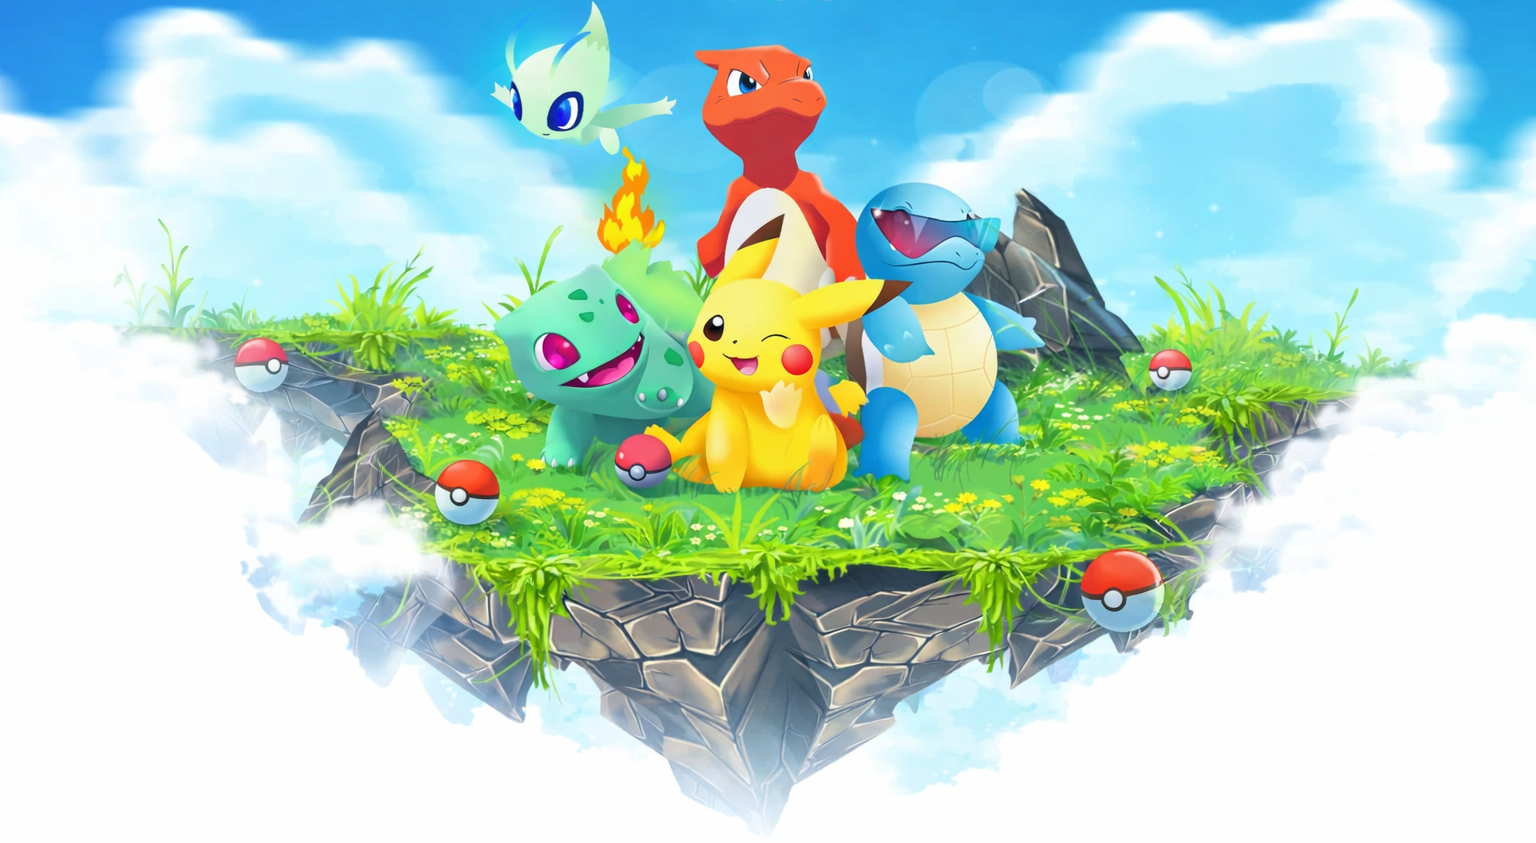
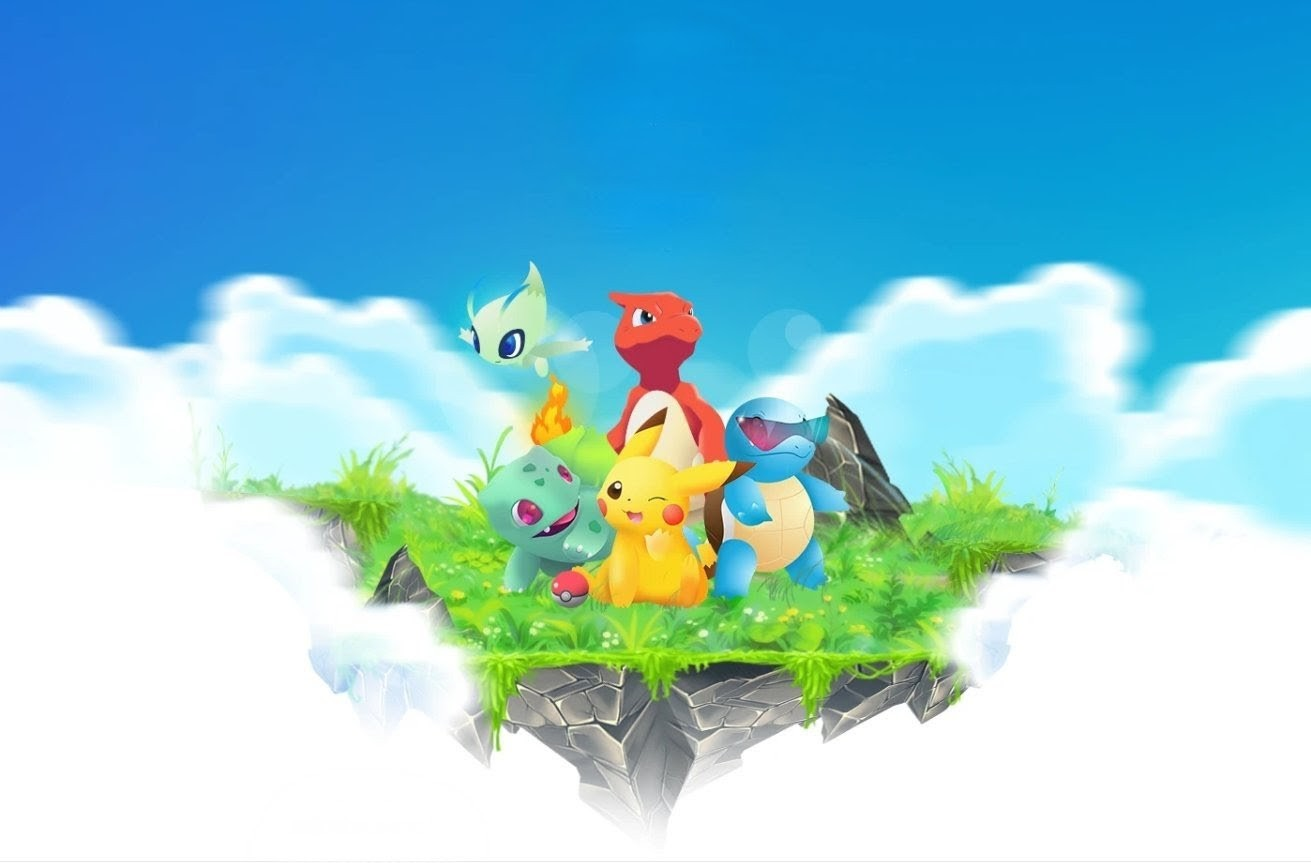
update for today

diff --git a/app/page.tsx b/app/page.tsx
@@ -1,8 +1,8 @@
 import Navbar from "@/components/Navbar";
-import FeatureCard from "@/components/FeatureCard";
 import HowItWorks from "@/components/HowItWorks";
 import CTASection from "@/components/CTASection";
 import Hero from "@/components/Hero";
+import Features from "@/components/Features";
 import { FaUsers, FaChartLine, FaShieldAlt } from "react-icons/fa";
 
 export default function Home() {
@@ -10,33 +10,7 @@ export default function Home() {
     <main className="bg-white">
       <Navbar />
       <Hero />
-
-      // {/* Hero Section */}
-      // <section className="text-center py-32 bg-gradient-to-r from-blue-500 to-blue-400 text-white">
-      //   <h1 className="text-5xl font-bold">Play Pokémon GO Smarter</h1>
-      //   <p className="mt-4 text-xl">
-      //     Build better teams, find raid counters, and analyze stats
-      //   </p>
-      // </section>
-
-      {/* Features */}
-      <section className="px-20 py-20 grid grid-cols-3 gap-6">
-        <FeatureCard
-          title="Team Builder"
-          desc="Create and analyze competitive Pokémon teams."
-          icon={<FaUsers />}
-        />
-        <FeatureCard
-          title="Raid Counters"
-          desc="Find the best Pokémon for any raid boss."
-          icon={<FaShieldAlt />}
-        />
-        <FeatureCard
-          title="Stat Analytics"
-          desc="Understand IVs, CP, and performance."
-          icon={<FaChartLine />}
-        />
-      </section>
+      <Features />    
 
       <HowItWorks />
 

diff --git a/app/styles/hero.css b/app/styles/hero.css
@@ -1,51 +1,53 @@
 .title-strip {
   position: relative;
   width: 100%;
-  height: 100px;
 }
 
 .title-bg {
   width: 100%;
-  height: 100%;
-  object-fit: cover;
+  height: auto;
+  display: block;
 }
+
+/* Overlay container */
+/* .title-overlay {
+  
+  top: 8%;          
+  left: 50%;
+  transform: translateX(-50%);
+  
+  pointer-events: none;
+} */
 
 .title-overlay {
   position: absolute;
   inset: 0;
   display: flex;
   flex-direction: column;
-  justify-content: center;
+  /* justify-content: center; */
   align-items: center;
   text-align: center;
-  /* background: transparent;
-  z-index: 100; */
+  top: 8%; 
 }
 
+/* Text style */
+/* .title-overlay h1 {
+  font-size: clamp(2rem, 5vw, 4rem);
+  color: white;
+  font-weight: 800;
+  text-shadow: 
+    0 2px 6px rgba(0,0,0,0.4),
+    0 0 20px rgba(255,255,255,0.4);
+  letter-spacing: 2px;
+} */
+
 .title-overlay h1 {
-  font-size: 3.2rem;
-  color: #38bdf8;
+  font-size: 4rem;
+  color: #e0f2fe;
+  margin-bottom: 12px;
 }
 
 .title-overlay p {
-  font-size: 1.2rem;
+  font-size: 1.5rem;
   color: #e0f2fe;
 }
-
-
-/* -------- POKEMON BANNER -------- */
-
-.pokemon-banner {
-  width: 100%;
-  height: 70vh;
-  overflow: hidden;
-  background: #020617; /* fallback color */
-}
-
-.pokemon-banner img {
-  width: 100%;
-  height: 100%;
-  object-fit: cover;
-}
-
-

diff --git a/app/components/Hero.tsx b/app/components/Hero.tsx
@@ -4,21 +4,29 @@ export default function Hero() {
   return (
     <div>
 
-      {/* Title Banner */}
-      {/* Blue title banner */}
-<div className="title-strip">
-  <img src="/title.png" alt="Title Background" className="title-bg" />
-
+      <div className="title-strip">
+  <img src="/hero.png" alt="banner" className="title-bg" />
   <div className="title-overlay">
     <h1>Play Pokémon GO Smarter</h1>
     <p>Build better teams, find raid counters, and analyze stats</p>
   </div>
 </div>
 
+
+      
+{/* <div className="title-strip">
+  <img src="/hero.png" alt="Pokemon Banner" className="title-bg" />
+
+  <div className="title-overlay">
+    <h1>Play Pokémon GO Smarter</h1>
+    <p>Build better teams, find raid counters, and analyze stats</p>
+  </div>
+</div> */}
+
       {/* Pokemon Banner */}
-      <div className="pokemon-banner">
-        <img src="/hero.png" alt="Pokemon Banner" />
-      </div>
+      {/* <div className="pokemon-banner">
+        <img src="/hero.png" alt="" />
+      </div> */}
 
     </div>
   );

diff --git a/app/components/Features.tsx b/app/components/Features.tsx
@@ -1,0 +1,36 @@
+import "../styles/features.css";
+
+export default function Features() {
+  return (
+    <section className="features">
+
+      {/* Block 1 */}
+      <div className="feature-row">
+        <img src="/images/team.png" alt="Team Builder" />
+        <div className="feature-text">
+          <h2>Team Builder</h2>
+          <p>Create and analyze competitive Pokémon teams.</p>
+        </div>
+      </div>
+
+      {/* Block 2 */}
+      <div className="feature-row reverse">
+        <div className="feature-text">
+          <h2>Raid Counters</h2>
+          <p>Find the best Pokémon for any raid boss.</p>
+        </div>
+        <img src="/images/raid.png" alt="Raid Counters" />
+      </div>
+
+      {/* Block 3 */}
+      <div className="feature-row">
+        <img src="/images/stats.png" alt="Stat Analytics" />
+        <div className="feature-text">
+          <h2>Stat Analytics</h2>
+          <p>Understand IVs, CP, and performance.</p>
+        </div>
+      </div>
+
+    </section>
+  );
+}

diff --git a/app/styles/features.css b/app/styles/features.css
@@ -1,0 +1,39 @@
+.features {
+  width: 100%;
+  padding: 100px 10%;
+  display: flex;
+  flex-direction: column;
+  gap: 140px;
+  background: #fff;
+}
+
+.feature-row {
+  display: flex;
+  align-items: center;
+  justify-content: space-between;
+  gap: 80px;
+}
+
+.feature-row img {
+  width: 420px;
+  max-width: 100%;
+}
+
+.feature-text {
+  max-width: 500px;
+}
+
+.feature-text h2 {
+  font-size: 2.8rem;
+  margin-bottom: 12px;
+}
+
+.feature-text p {
+  font-size: 1.3rem;
+  color: #555;
+  line-height: 1.6;
+}
+
+.reverse {
+  flex-direction: row-reverse;
+}
